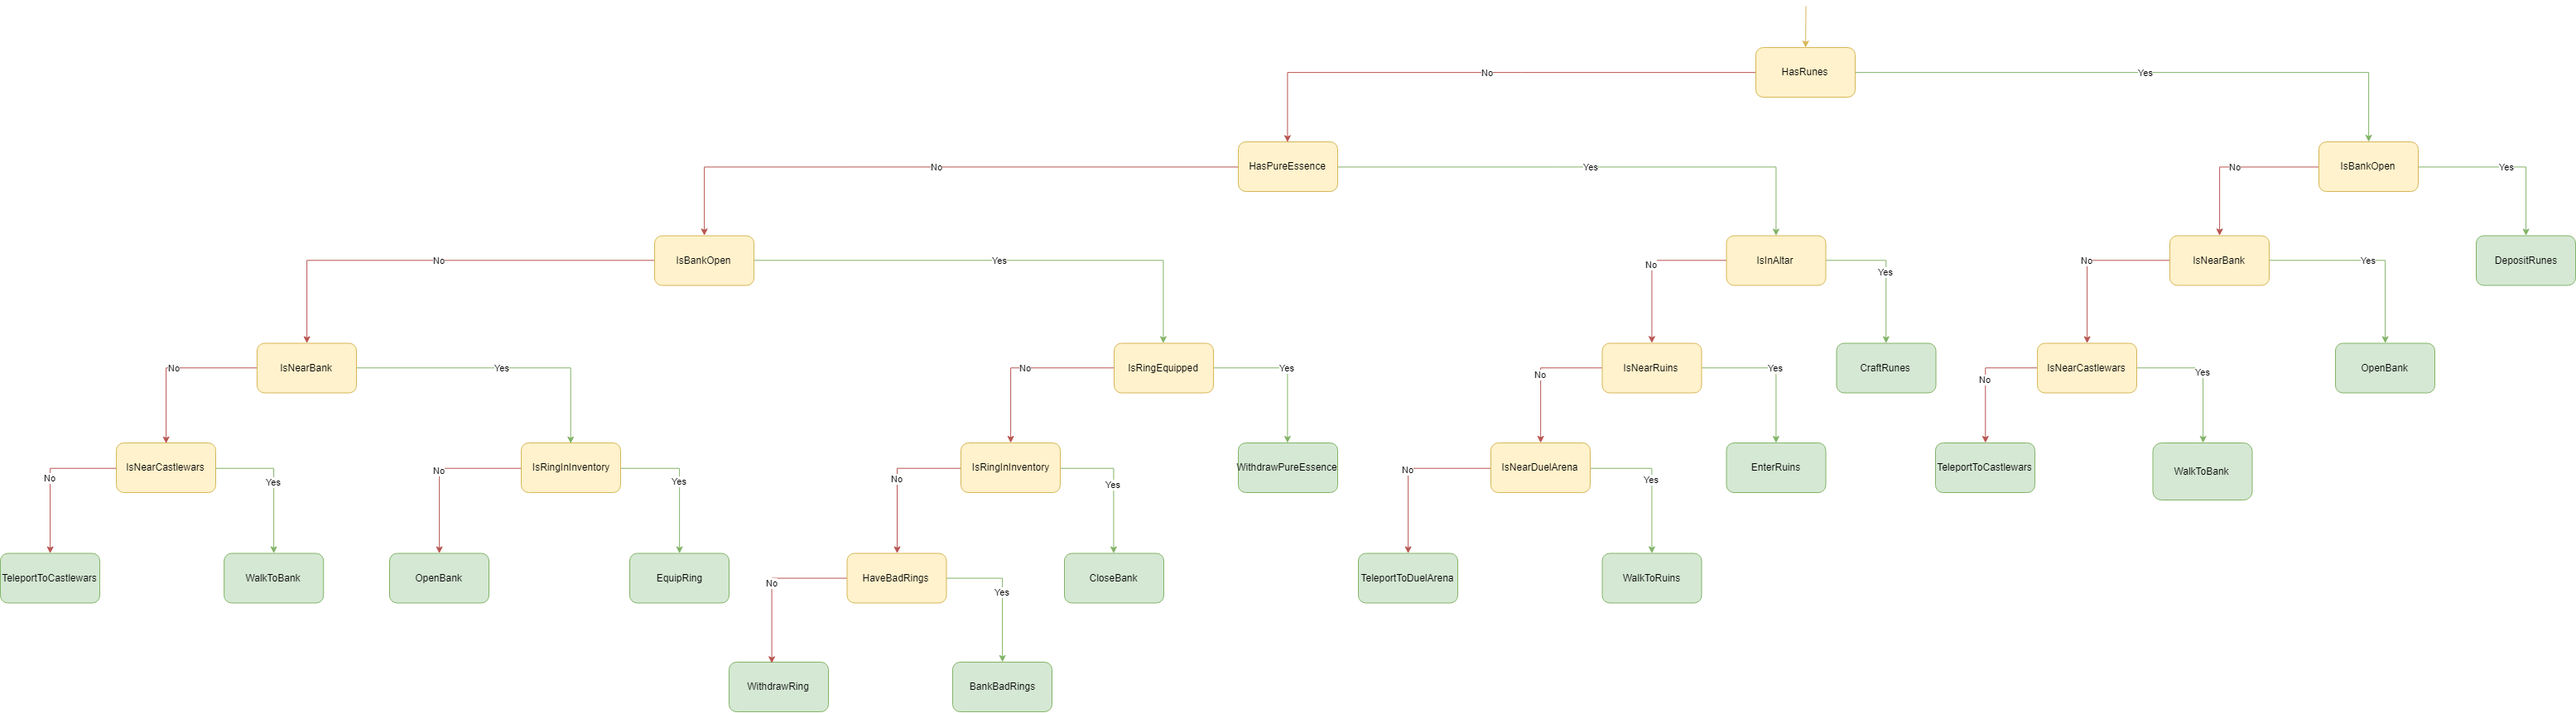
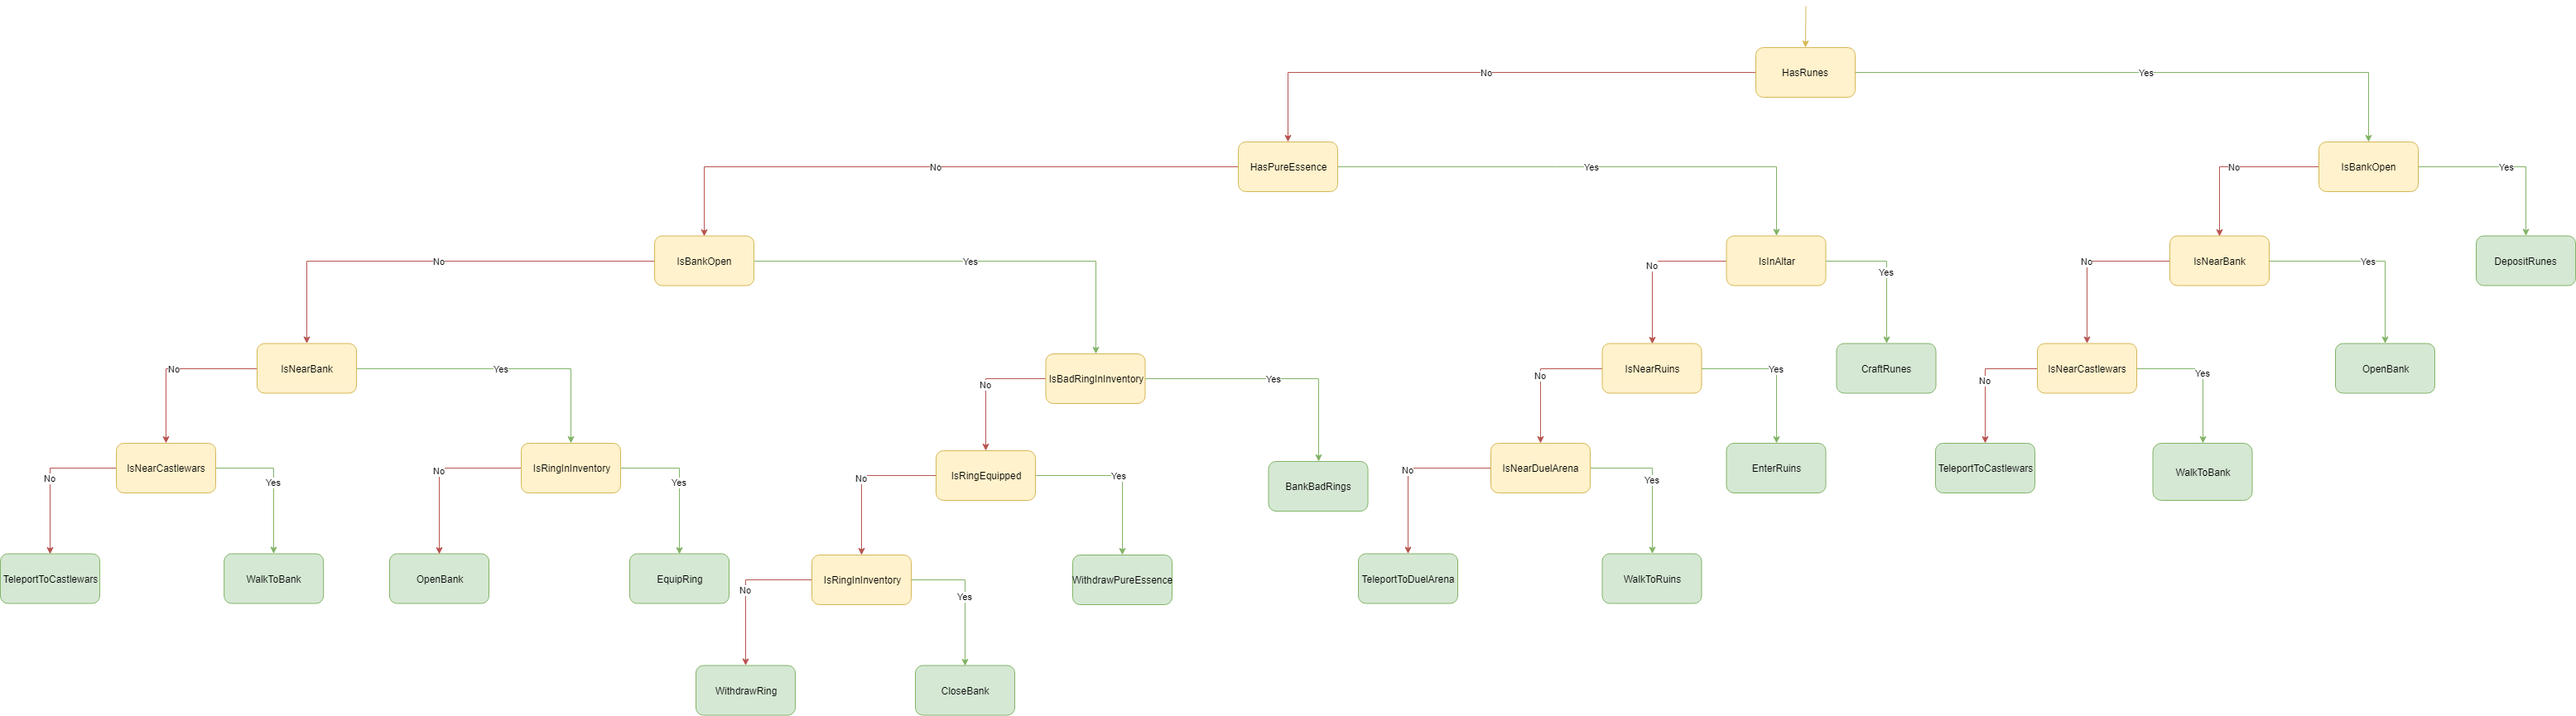
Restructured Fire rune castle wars method

diff --git a/src/methods/CastleWarsFire.java b/src/methods/CastleWarsFire.java
@@ -8,7 +8,6 @@ import tasks.*;
 public class CastleWarsFire extends CraftMethod {
     public CastleWarsFire(final TreeScript handler) {
         super(handler, 554);
-        // TODO: 1/10/2019 Change castle wars location from bank tile to ring of dueling teleport tile
         handler.addNotedPosition("castle wars", new Position(2440, 3089));
         handler.addNotedPosition("duel arena", new Position(3312, 3235));
         handler.addNotedPosition("outside altar", new Position(3312, 3253));
@@ -23,13 +22,13 @@ public class CastleWarsFire extends CraftMethod {
         fifth = fourth.setRight(new IsRingInInventory());
         fifth.setLeft(new OpenBank());
         fifth.setRight(new EquipRing());
-        fourth = third.setRight(new IsRingEquipped());
-        fifth = fourth.setLeft(new IsRingInInventory());
-        TreeTask sixth = fifth.setLeft(new HaveBadRings());
+        fourth = third.setRight(new IsBadRingInInventory());
+        fifth = fourth.setLeft(new IsRingEquipped());
+        TreeTask sixth = fifth.setLeft(new IsRingInInventory());
         sixth.setLeft(new WithdrawRing());
-        sixth.setRight(new BankBadRings());
-        fifth.setRight(new CloseBank());
-        fourth.setRight(new WithdrawPureEssence());
+        sixth.setRight(new CloseBank());
+        fifth.setRight(new WithdrawPureEssence());
+        fourth.setRight(new BankBadRings());
         third = second.setRight(new IsInAltar(handler));
         fourth = third.setLeft(new IsNearRuins(handler));
         fifth = fourth.setLeft(new IsNearDuelArena(handler));

diff --git a/src/tasks/WithdrawRing.java b/src/tasks/WithdrawRing.java
@@ -1,11 +1,15 @@
 package tasks;
 
 import org.rspeer.runetek.api.commons.Time;
+import org.rspeer.runetek.api.commons.math.Random;
 import org.rspeer.runetek.api.component.Bank;
 import org.rspeer.runetek.api.component.tab.Inventory;
 import task_structure.TreeTask;
 
 public class WithdrawRing extends TreeTask {
+    private final int MAXIMUM_WITHDRAWAL_ATTEMPTS = 3;
+    private int withdrawAttempts;
+
     public WithdrawRing() {
         super(true);
     }
@@ -17,6 +21,12 @@ public class WithdrawRing extends TreeTask {
 
     @Override
     public int execute() {
+        if (!Bank.contains(item -> item.getName().matches("Ring of dueling\\([2-8]\\)"))) {
+            Time.sleepUntil(() -> Bank.contains(item -> item.getName().matches("Ring of dueling\\([2-8]\\)")), Random.high(500, 1000));
+            withdrawAttempts++;
+            System.out.println("Could't find any ring; count: " + withdrawAttempts);
+            return withdrawAttempts == MAXIMUM_WITHDRAWAL_ATTEMPTS ? -1 : super.execute();
+        }
         for (int charge = 8; charge >= 2; charge--) {
             final String ring = "Ring of dueling(" + charge + ')';
             if (!Bank.contains(ring)) continue;

diff --git a/src/Runecraft.java b/src/Runecraft.java
@@ -18,7 +18,7 @@ public class Runecraft extends TreeScript implements RenderListener, ItemTableLi
     @Override
     public void onStart() {
         // Current initialization of crafting method is manual - will be replaced by GUI selection in near-future
-        final CraftMethod craftMethod = new SimpleFire(this);
+        final CraftMethod craftMethod = new CastleWarsFire(this);
         // Initialized craft method with fire rune method
         setHead(craftMethod.getHead());
         progressPaint = new ProgressPaint(craftMethod);
@@ -41,10 +41,8 @@ public class Runecraft extends TreeScript implements RenderListener, ItemTableLi
     public void notify(final RenderEvent renderEvent) {
         final Graphics source = renderEvent.getSource();
         if (source == null) return;
-        progressPaint.displayPaint(source);
-//        final String taskDescription = getTaskDescription();
-//        if (taskDescription == null) return;
-//        source.drawString(taskDescription, 100, 300);
+//        progressPaint.displayPaint(source);
+        progressPaint.displayPaint(source, getTaskDescription());
     }
 
     @Override

diff --git a/src/tasks/CraftRunes.java b/src/tasks/CraftRunes.java
@@ -8,7 +8,7 @@ import org.rspeer.runetek.api.scene.SceneObjects;
 import task_structure.TreeScript;
 import task_structure.TreeTask;
 
-public class CraftRunes extends TreeTask{
+public class CraftRunes extends TreeTask {
     private final TreeScript handler;
 
     public CraftRunes(final TreeScript handler) {
@@ -25,10 +25,10 @@ public class CraftRunes extends TreeTask{
     @Override
     public int execute() {
         final SceneObject altar = SceneObjects.getNearest("Altar");
-        if (altar != null) {
-            altar.interact("Craft-rune");
-            Time.sleepUntil(() -> !Inventory.contains("Pure essence") && !Players.getLocal().isAnimating(), 5000);
-        }
+        if (altar == null) return super.execute();
+        altar.interact("Craft-rune");
+        Time.sleepUntil(() -> !Inventory.contains("Pure essence") && !Players.getLocal().isAnimating(), 5000);
+        Time.sleep(600, 900);
         return super.execute();
     }
 

diff --git a/src/tasks/EquipRing.java b/src/tasks/EquipRing.java
@@ -17,10 +17,10 @@ public class EquipRing extends TreeTask {
 
     @Override
     public int execute() {
-        final Item ring = Inventory.getFirst(item -> item.getName().contains("Dueling ring"));
+        final Item ring = Inventory.getFirst(item -> item.getName().contains("Ring of dueling"));
         if (ring == null) return super.execute();
         ring.interact("Wear");
-        Time.sleepUntil(() -> !Inventory.contains(item -> item.getName().contains("Dueling ring")), 3000);
+        Time.sleepUntil(() -> !Inventory.contains(item -> item.getName().matches("Ring of dueling\\([2-8]\\)")), 3000);
         return super.execute();
     }
 

diff --git a/src/methods/SimpleFire.java b/src/methods/SimpleFire.java
@@ -7,8 +7,7 @@ public class SimpleFire extends DefaultWalkMethod {
 
     public SimpleFire(final TreeScript handler) {
         super(handler, 554, "Fire");
-        // Bank will be changed to Duel Arena with next RsPeer update
-        handler.addNotedPosition("bank", new Position(3374, 3170));
+        handler.addNotedPosition("bank", new Position(3382, 3267));
         handler.addNotedPosition("outside altar", new Position(3312, 3253));
         handler.addNotedPosition("inside altar", new Position(2576, 4848));
         buildTree();

diff --git a/src/tasks/IsNearCastlewars.java b/src/tasks/IsNearCastlewars.java
@@ -15,6 +15,6 @@ public class IsNearCastlewars extends TreeTask {
     @Override
     public boolean validate() {
         final Position castlewarsPosition = handler.getNotedPosition("castle wars");
-        return castlewarsPosition != null && castlewarsPosition.distance() < 20;
+        return castlewarsPosition != null && castlewarsPosition.distance() < 100;
     }
 }

diff --git a/src/tasks/IsNearDuelArena.java b/src/tasks/IsNearDuelArena.java
@@ -15,6 +15,6 @@ public class IsNearDuelArena extends TreeTask {
     @Override
     public boolean validate() {
         final Position duelArenaPosition = handler.getNotedPosition("duel arena");
-        return duelArenaPosition != null && duelArenaPosition.distance() < 10;
+        return duelArenaPosition != null && duelArenaPosition.distance() < 20;
     }
 }

diff --git a/src/tasks/IsBadRingInInventory.java b/src/tasks/IsBadRingInInventory.java
@@ -3,8 +3,8 @@ package tasks;
 import org.rspeer.runetek.api.component.tab.Inventory;
 import task_structure.TreeTask;
 
-public class HaveBadRings extends TreeTask {
-    public HaveBadRings() {
+public class IsBadRingInInventory extends TreeTask {
+    public IsBadRingInInventory() {
         super(false);
     }
 
